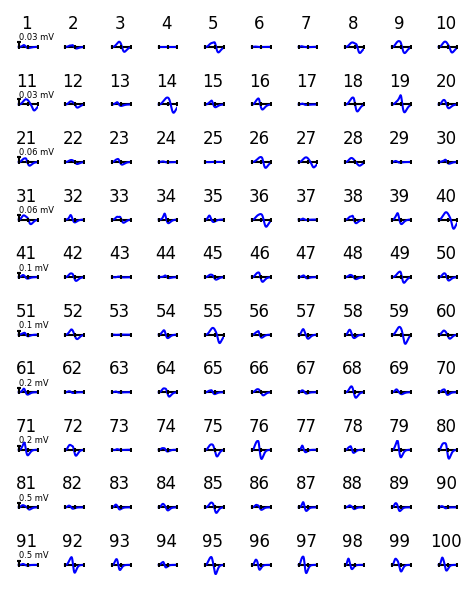
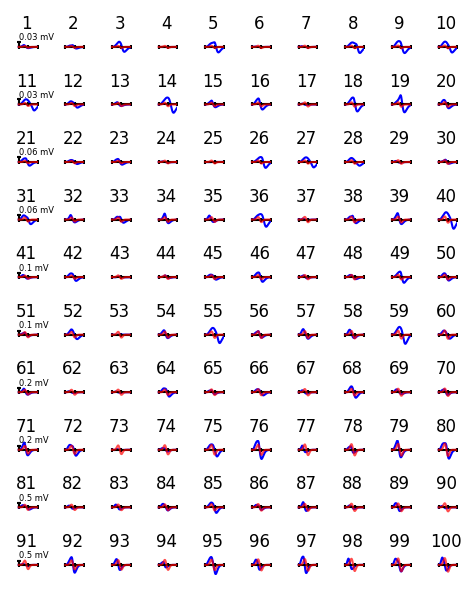
Plot anatomical and synthetic MUAPs detail together

diff --git a/scripts/fig_method_3.py b/scripts/fig_method_3.py
@@ -1,16 +1,30 @@
 import os
 import sys
-
+import h5py
 import numpy as np
 import matplotlib.pyplot as plt
 
 parentDir = os.path.dirname(os.getcwd())
 sys.path.append(parentDir)
-
-from load_muap import load_muap
+from h5_helpers import load_h5_to_dict
 
 # ---------fig_method_3-detail.png----------
-muaps, tmuap = load_muap()
+root = ".."
+h5_path = os.path.join(root, "data_MUAP", "pheno_muaps.h5")
+if os.path.exists(h5_path):
+    with h5py.File(h5_path, 'r') as f:
+        tmp = load_h5_to_dict(f)
+
+    p_muaps = tmp["muaps"]   # [n_samples x n_muaps]
+    tmuap     = tmp["t"].T     # [n_samples x 1]
+
+h5_path = os.path.join(root, "data_MUAP", "muap.h5")
+
+if os.path.exists(h5_path):
+    with h5py.File(h5_path, 'r') as f:
+        tmp = load_h5_to_dict(f)
+
+    a_muaps = tmp["muaps"]   # [n_samples x n_muaps]
 
 fig, axes = plt.subplots(10, 10, figsize=(12 / 2.54, 15 / 2.54))
 axes = axes.flatten()
@@ -18,25 +32,31 @@ axes = axes.flatten()
 for idx in range(1, 101):
     i = idx - 1
     ax = axes[i]
-    ax.plot(tmuap, muaps[:, i] * 1000, 'b', linewidth=1.5, zorder=10)
+    ax.plot(tmuap, a_muaps[:, i] * 1000, 'b', linewidth=1.5)
+    ax.plot(tmuap, p_muaps[:, i] * 1000, 'r', linewidth=1.5, zorder=10, alpha=0.7)
     ax.plot([0, 10], [0, 0], 'k')
-    ax.scatter([0, 5, 10], [0, 0, 0], s=8, marker='|', color='k', zorder=15)
+    ax.scatter([0, 5, 10], [0, 0, 0], s=8, marker='|', color='k')
 
     ax.set_xlim([-2, 10])
     if idx <= 20:
-        group = muaps[:, 0:20]
+        group = a_muaps[:, 0:20]
+        #group = p_muaps[:, 0:20]
         ytick = 0.03
     elif idx <= 40:
-        group = muaps[:, 20:40]
+        group = a_muaps[:, 20:40]
+        #group = p_muaps[:, 20:40]
         ytick = 0.06
     elif idx <= 60:
-        group = muaps[:, 40:60]
+        group = a_muaps[:, 40:60]
+        #group = p_muaps[:, 40:60]
         ytick = 0.1
     elif idx <= 80:
-        group = muaps[:, 60:80]
+        group = a_muaps[:, 60:80]
+        #group = p_muaps[:, 60:80]
         ytick = 0.2
     else:
-        group = muaps[:, 80:100]
+        group = a_muaps[:, 80:100]
+        #group = p_muaps[:, 80:100]
         ytick = 0.5
 
     ymax = np.max(np.abs(group)) * 1.1 * 1000
@@ -57,26 +77,3 @@ for idx in range(1, 101):
 fig.tight_layout()
 os.makedirs('figures', exist_ok=True)
 fig.savefig(os.path.join('figures', 'fig_method_3-detail.png'))
-
-# ---------fig_method_3.png----------
-muaps, tmuap = load_muap()
-ymax = np.max(np.abs(muaps)) * 1.1 * 1000
-ylimits = [-ymax, ymax]
-
-fig2, axes2 = plt.subplots(2, 5, figsize=(15 / 2.54, 7 / 2.54))
-axes2 = axes2.flatten()
-
-for i in range(10):
-    ax = axes2[i]
-    cols = muaps[:, i * 10:(i + 1) * 10] * 1000
-    ax.plot(tmuap, cols, 'k', linewidth=0.5)
-    ax.set_ylim(ylimits)
-    ax.grid(True)
-    ax.set_xticks([0, 5, 10])
-    ax.set_xlim([0, 10])
-    ax.set_title(f'{i * 10 + 1} - {i * 10 + 10}')
-    ax.spines['top'].set_visible(False)
-    ax.spines['right'].set_visible(False)
-
-fig2.tight_layout()
-fig2.savefig(os.path.join('figures', 'fig_method_3.png'))
